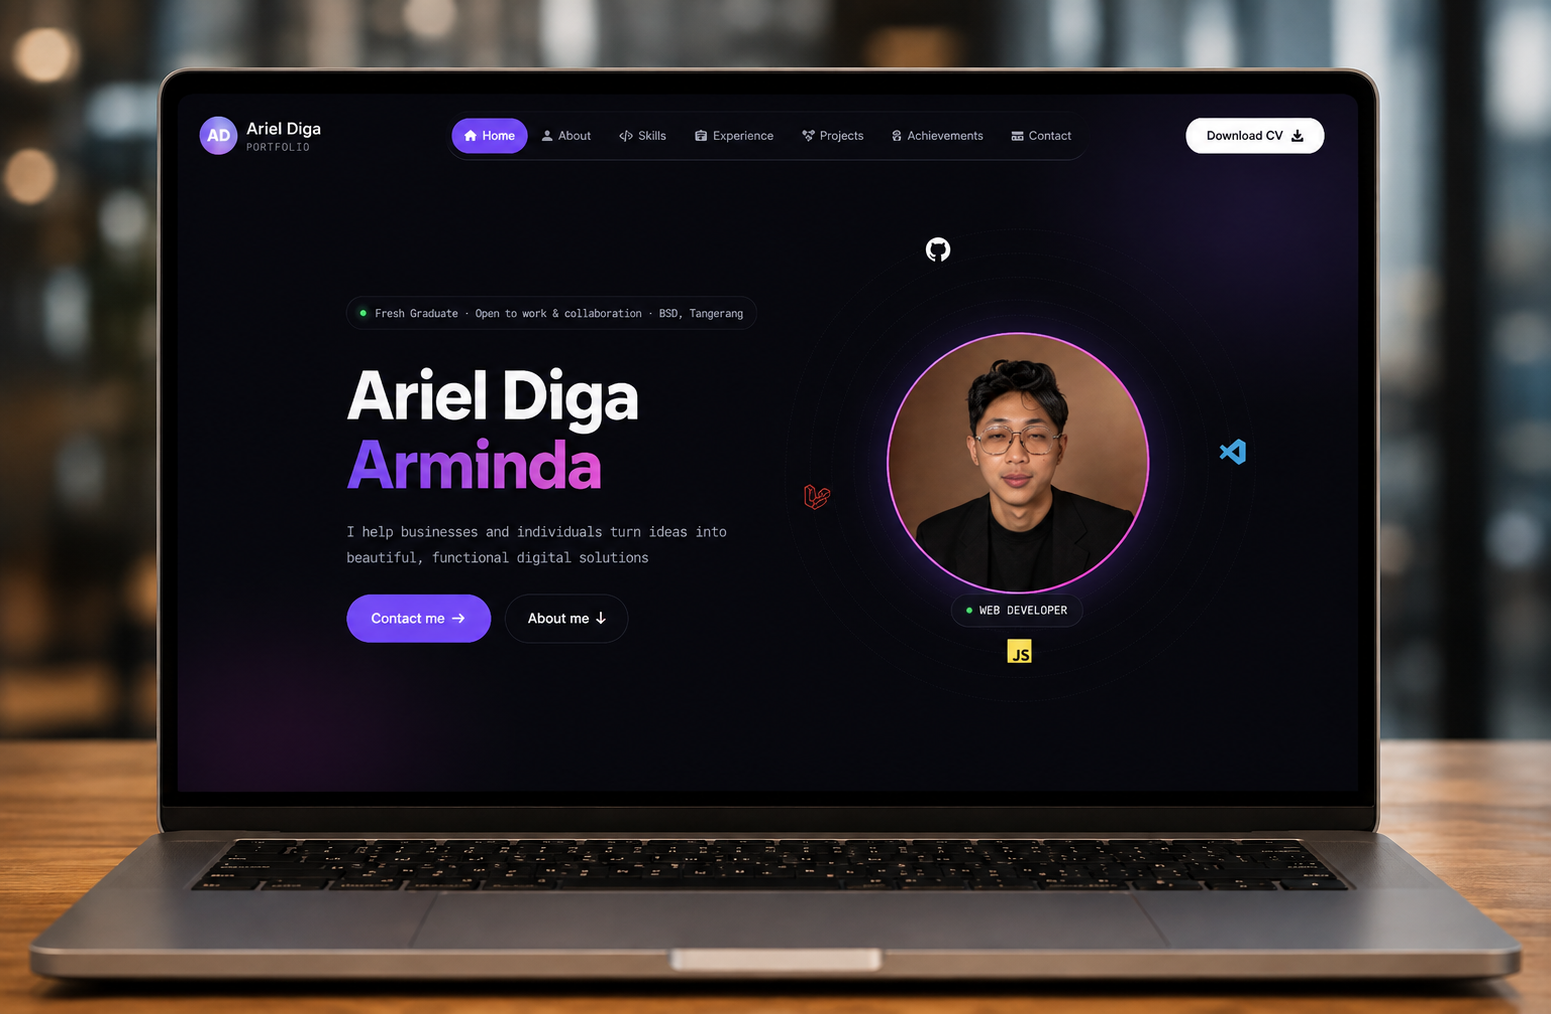
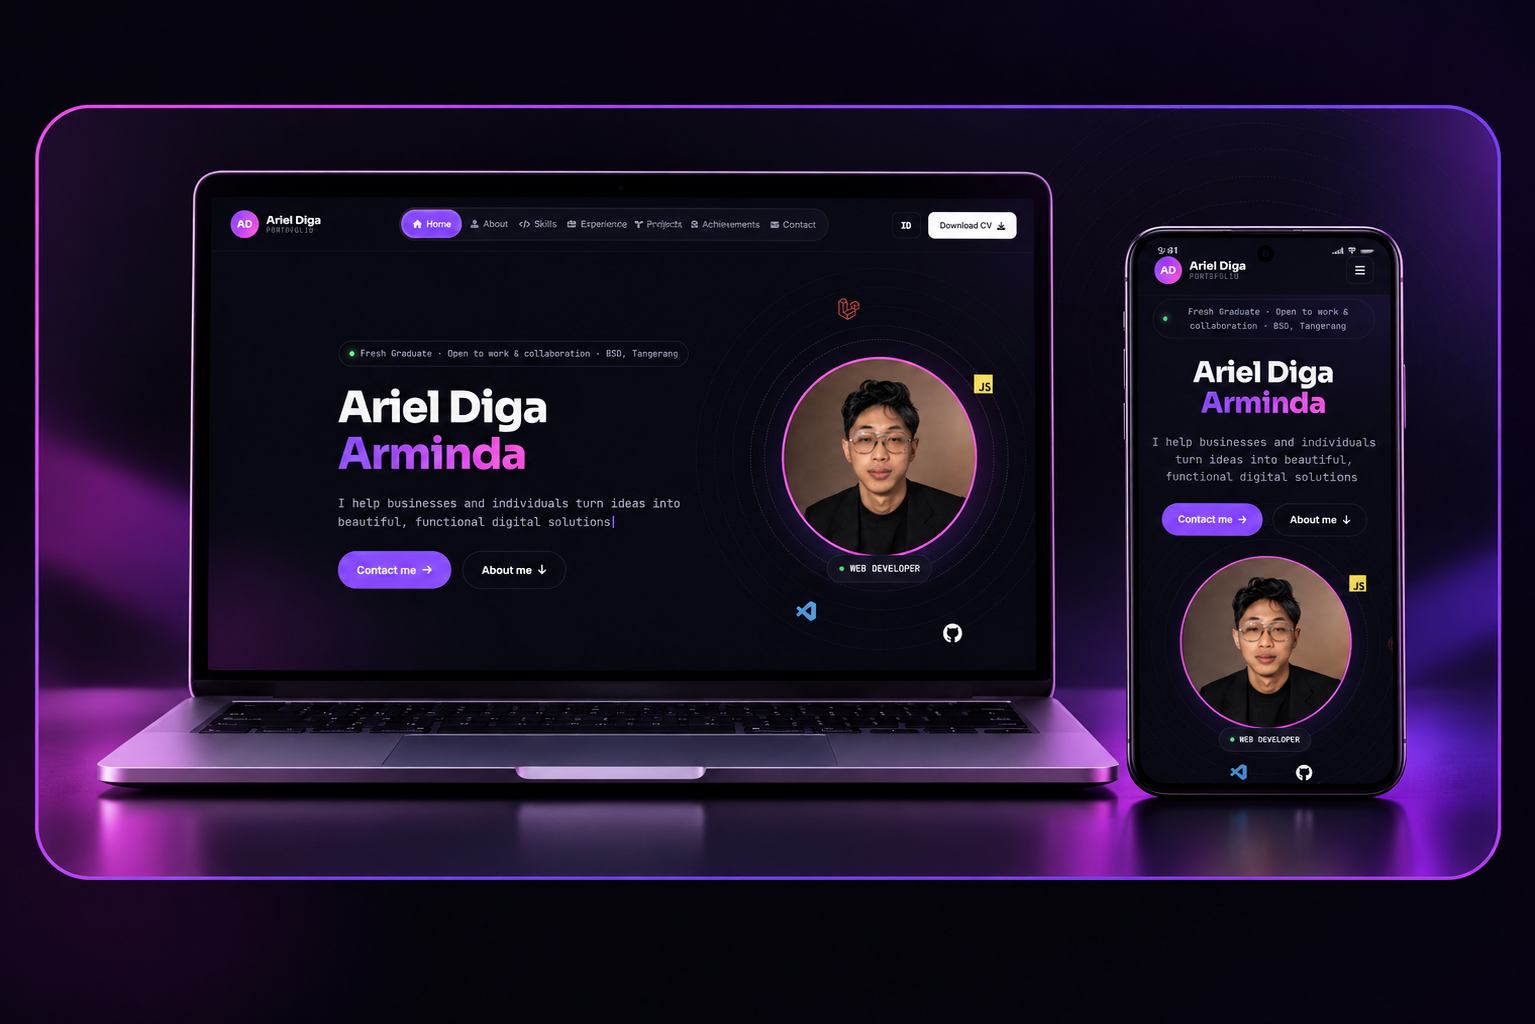
update cover projek

diff --git a/index.html b/index.html
@@ -569,20 +569,21 @@ nav{
   flex-direction:column;
 }
 .project-card:hover{transform:translateY(-6px);border-color:var(--primary);}
-.project-img{width:100%;height:170px;object-fit:contain;display:block;background:var(--surface-2);padding:10px;}
+.project-img{
+  width:100%;
+  aspect-ratio:2 / 1;      /* ubah ke "2 / 1" kalau gambarmu lebih panjang ke samping */
+  height:auto;
+  object-fit:cover;         /* gambar memenuhi kotak, tanpa pita kosong */
+  display:block;
+  background:var(--surface-2);
+  padding:0;
+}
+.project-img.crop-edge{
+  object-view-box:inset(4% 4%);   /* inset(atas-bawah  kiri-kanan): potong tepi gambar */
+}
 .project-img.blank{
   display:flex;align-items:center;justify-content:center;
   font-size:2.4rem;color:var(--text-faint);
-}
-/* Cover yang punya bingkai hitam: perbesar & potong agar area ungu memenuhi kartu */
-.project-img-wrap{height:170px;overflow:hidden;background:var(--surface-2);}
-.project-img-wrap .project-img{
-  height:100%;
-  padding:0;
-  background:none;
-  object-fit:cover;            /* isi penuh, bukan "contain" */
-  object-position:center 60%;  /* geser ke atas/bawah: angka kecil = naik, besar = turun */
-  transform:scale(1.08);       /* perbesar sedikit untuk membuang sisa bingkai hitam */
 }
 .project-info{padding:20px;display:flex;flex-direction:column;flex:1;}
 .project-info h3{font-family:var(--display);font-size:1.05rem;margin-bottom:8px;}
@@ -1236,20 +1237,20 @@ footer{
 
   <div class="projects-grid">
     <div class="project-card">
-      <img class="project-img" src="images/SS-Porto.png" alt="Tampilan Portofolio Website">
+      <img class="project-img crop-edge" src="images/SS-Porto.png" alt="Tampilan Portofolio Website">
       <div class="project-info">
         <h3>Personal Portofolio Website</h3>
         <p data-i18n-en="A personal website that serves as a space to introduce myself, showcase projects, and document my experience as a developer." data-i18n-id="Website pribadi yang menjadi ruang untuk memperkenalkan diri, menampilkan proyek, dan mendokumentasikan pengalaman saya sebagai developer.">A personal website that serves as a space to introduce myself, showcase projects, and document my experience as a developer.</p>
-        <div class="tech-tags"><span>HTML</span><span>CSS</span><span>JavaScript</span></div>
+        <div class="tech-tags"><span>HTML</span><span>CSS</span><span>JavaScript</span><span>Vercel</span></div>
       </div>
     </div>
 
     <div class="project-card">
-      <img class="project-img" src="images/IOT_Portal.png" alt="Tampilan IOT Portal">
+      <img class="project-img crop-edge" src="images/IOT_Portal.png" alt="Tampilan IOT Portal">
       <div class="project-info">
         <h3>IOT Monitoring Portal</h3>
         <p data-i18n-en="A real time web portal for monitoring multi vendor water quality sensor data (pH, COD, TSS, NH3N, etc), developed during an internship at PT Lautan Air Indonesia." data-i18n-id="Web portal untuk monitoring data sensor kualitas air (pH, COD, TSS, NH3N, dll) secara real time dari multi vendor, dikembangkan saat magang di PT Lautan Air Indonesia.">Web portal untuk monitoring data sensor kualitas air (pH, COD, TSS, NH3N, dll) secara real time dari multi vendor, dikembangkan saat magang di PT Lautan Air Indonesia.</p>
-        <div class="tech-tags"><span>Laravel</span><span>PostgreSQL</span><span>JavaScript</span><span>Bootstrap</span></div>
+        <div class="tech-tags"><span>Laravel</span><span>PHP</span><span>PostgreSQL</span><span>JavaScript</span><span>Bootstrap</span></div>
         <button type="button" class="project-detail-btn" data-project="iot-portal">
           <span data-i18n-en="View Detail" data-i18n-id="Lihat Detail">View Detail</span> <i class="fa-solid fa-arrow-up-right-from-square"></i>
         </button>
@@ -1257,7 +1258,7 @@ footer{
     </div>
 
     <div class="project-card">
-      <img class="project-img" src="images/ticket_complaint.png" alt="Tampilan Ticket Complaint System">
+      <img class="project-img crop-edge" src="images/ticket_complaint.png" alt="Tampilan Ticket Complaint System">
       <div class="project-info">
         <h3>Ticket Complaint System</h3>
         <p data-i18n-en="A customer complaint ticketing management system featuring an analytics dashboard, NCR tracking, and email notifications. Developed during an internship at PT Lautan Air Indonesia." data-i18n-id="Sistem manajemen tiket keluhan pelanggan yang dilengkapi dengan dasbor analitik, pelacakan NCR, dan notifikasi email. Sistem ini dikembangkan selama masa magang di PT Lautan Air Indonesia.">A customer complaint ticketing management system featuring an analytics dashboard, NCR tracking, and email notifications. Developed during an internship at PT Lautan Air Indonesia.</p>
@@ -1269,9 +1270,7 @@ footer{
     </div>
 
     <div class="project-card">
-      <div class="project-img-wrap">
-        <img class="project-img" src="images/Snake-Game.png" alt="Tampilan Snake Game">
-      </div>
+      <img class="project-img crop-edge" src="images/Snake-Game.png" alt="Tampilan Snake Game">
       <div class="project-info">
         <h3>Snake Game</h3>
         <p data-i18n-en="A browser-based Snake game with a Go backend and a PostgreSQL online top-10 leaderboard. Features smooth 60 FPS animation, a realistic snake and apple, and on-screen touch controls for mobile." data-i18n-id="Game Snake berbasis browser dengan backend Go dan leaderboard top 10 online berbasis PostgreSQL. Dilengkapi animasi mulus 60 FPS, ular dan apel realistis, serta kontrol layar sentuh untuk HP.">Game Snake berbasis browser dengan backend Go dan leaderboard top 10 online berbasis PostgreSQL. Dilengkapi animasi mulus 60 FPS, ular dan apel realistis, serta kontrol layar sentuh untuk HP.</p>
